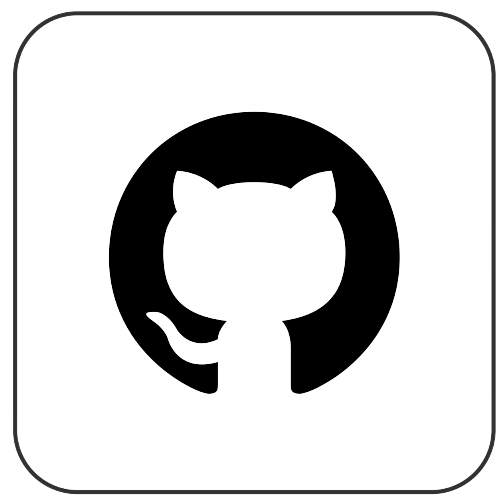
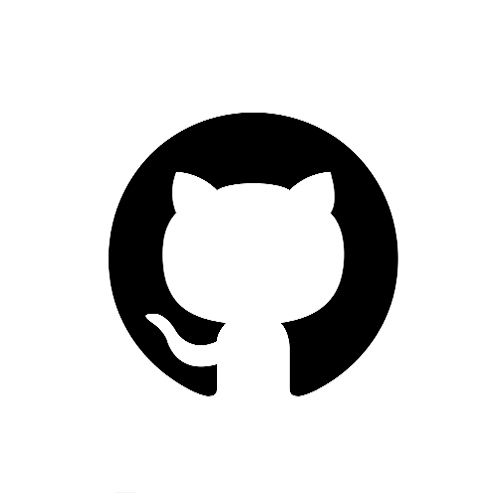
sistemate icone

diff --git a/index.html b/index.html
@@ -17,7 +17,7 @@
 <body>
     <header>
         <a href="https://wsmomo.github.io/Portfolio-Marco-Momo/" title="Website"><img class="icons" src="assets/img/marcoMomoHome.png" alt="my website"></a>
-        <a href="https://github.com/wsmomo/" title="GitHub"><img class="icons" src="assets/img/gitHub.png" alt="Github"></a>
+        <a href="https://github.com/wsmomo/" title="GitHub"><img class="icons" src="assets/img/github.png" alt="Github"></a>
         <a href="https://www.linkedin.com/in/marco-momo-61b08a159/?original_referer=https%3A%2F%2Fwsmomo.github.io%2F" title="Linkedin"><img class="icons" src="assets/img/linkedin.png" alt="Linkedin"></a>
     </header>
     <main>

diff --git a/assets/css/styles.css b/assets/css/styles.css
@@ -8,11 +8,11 @@
 body {
     height: 100vh;
     width: 100vw;
+    background-color: black;
 }
 
 header {
     height: 7%;
-    background-color: black;
     display: flex;
     justify-content: end;
     align-items: center;
@@ -23,18 +23,17 @@ header a {
     justify-content: center;
     align-items: center;
     height: 100%;
+    margin-right: 19px;
 }
 
 /* icone header*/
 .icons {
     margin-top: 0;
-    margin-right: 40px;
     height: 90%;
+    border-radius: 10%;
 }
 
-
 main {
-    background-color: black;
     height: 93%;
     display: flex;
     flex-direction: column;
